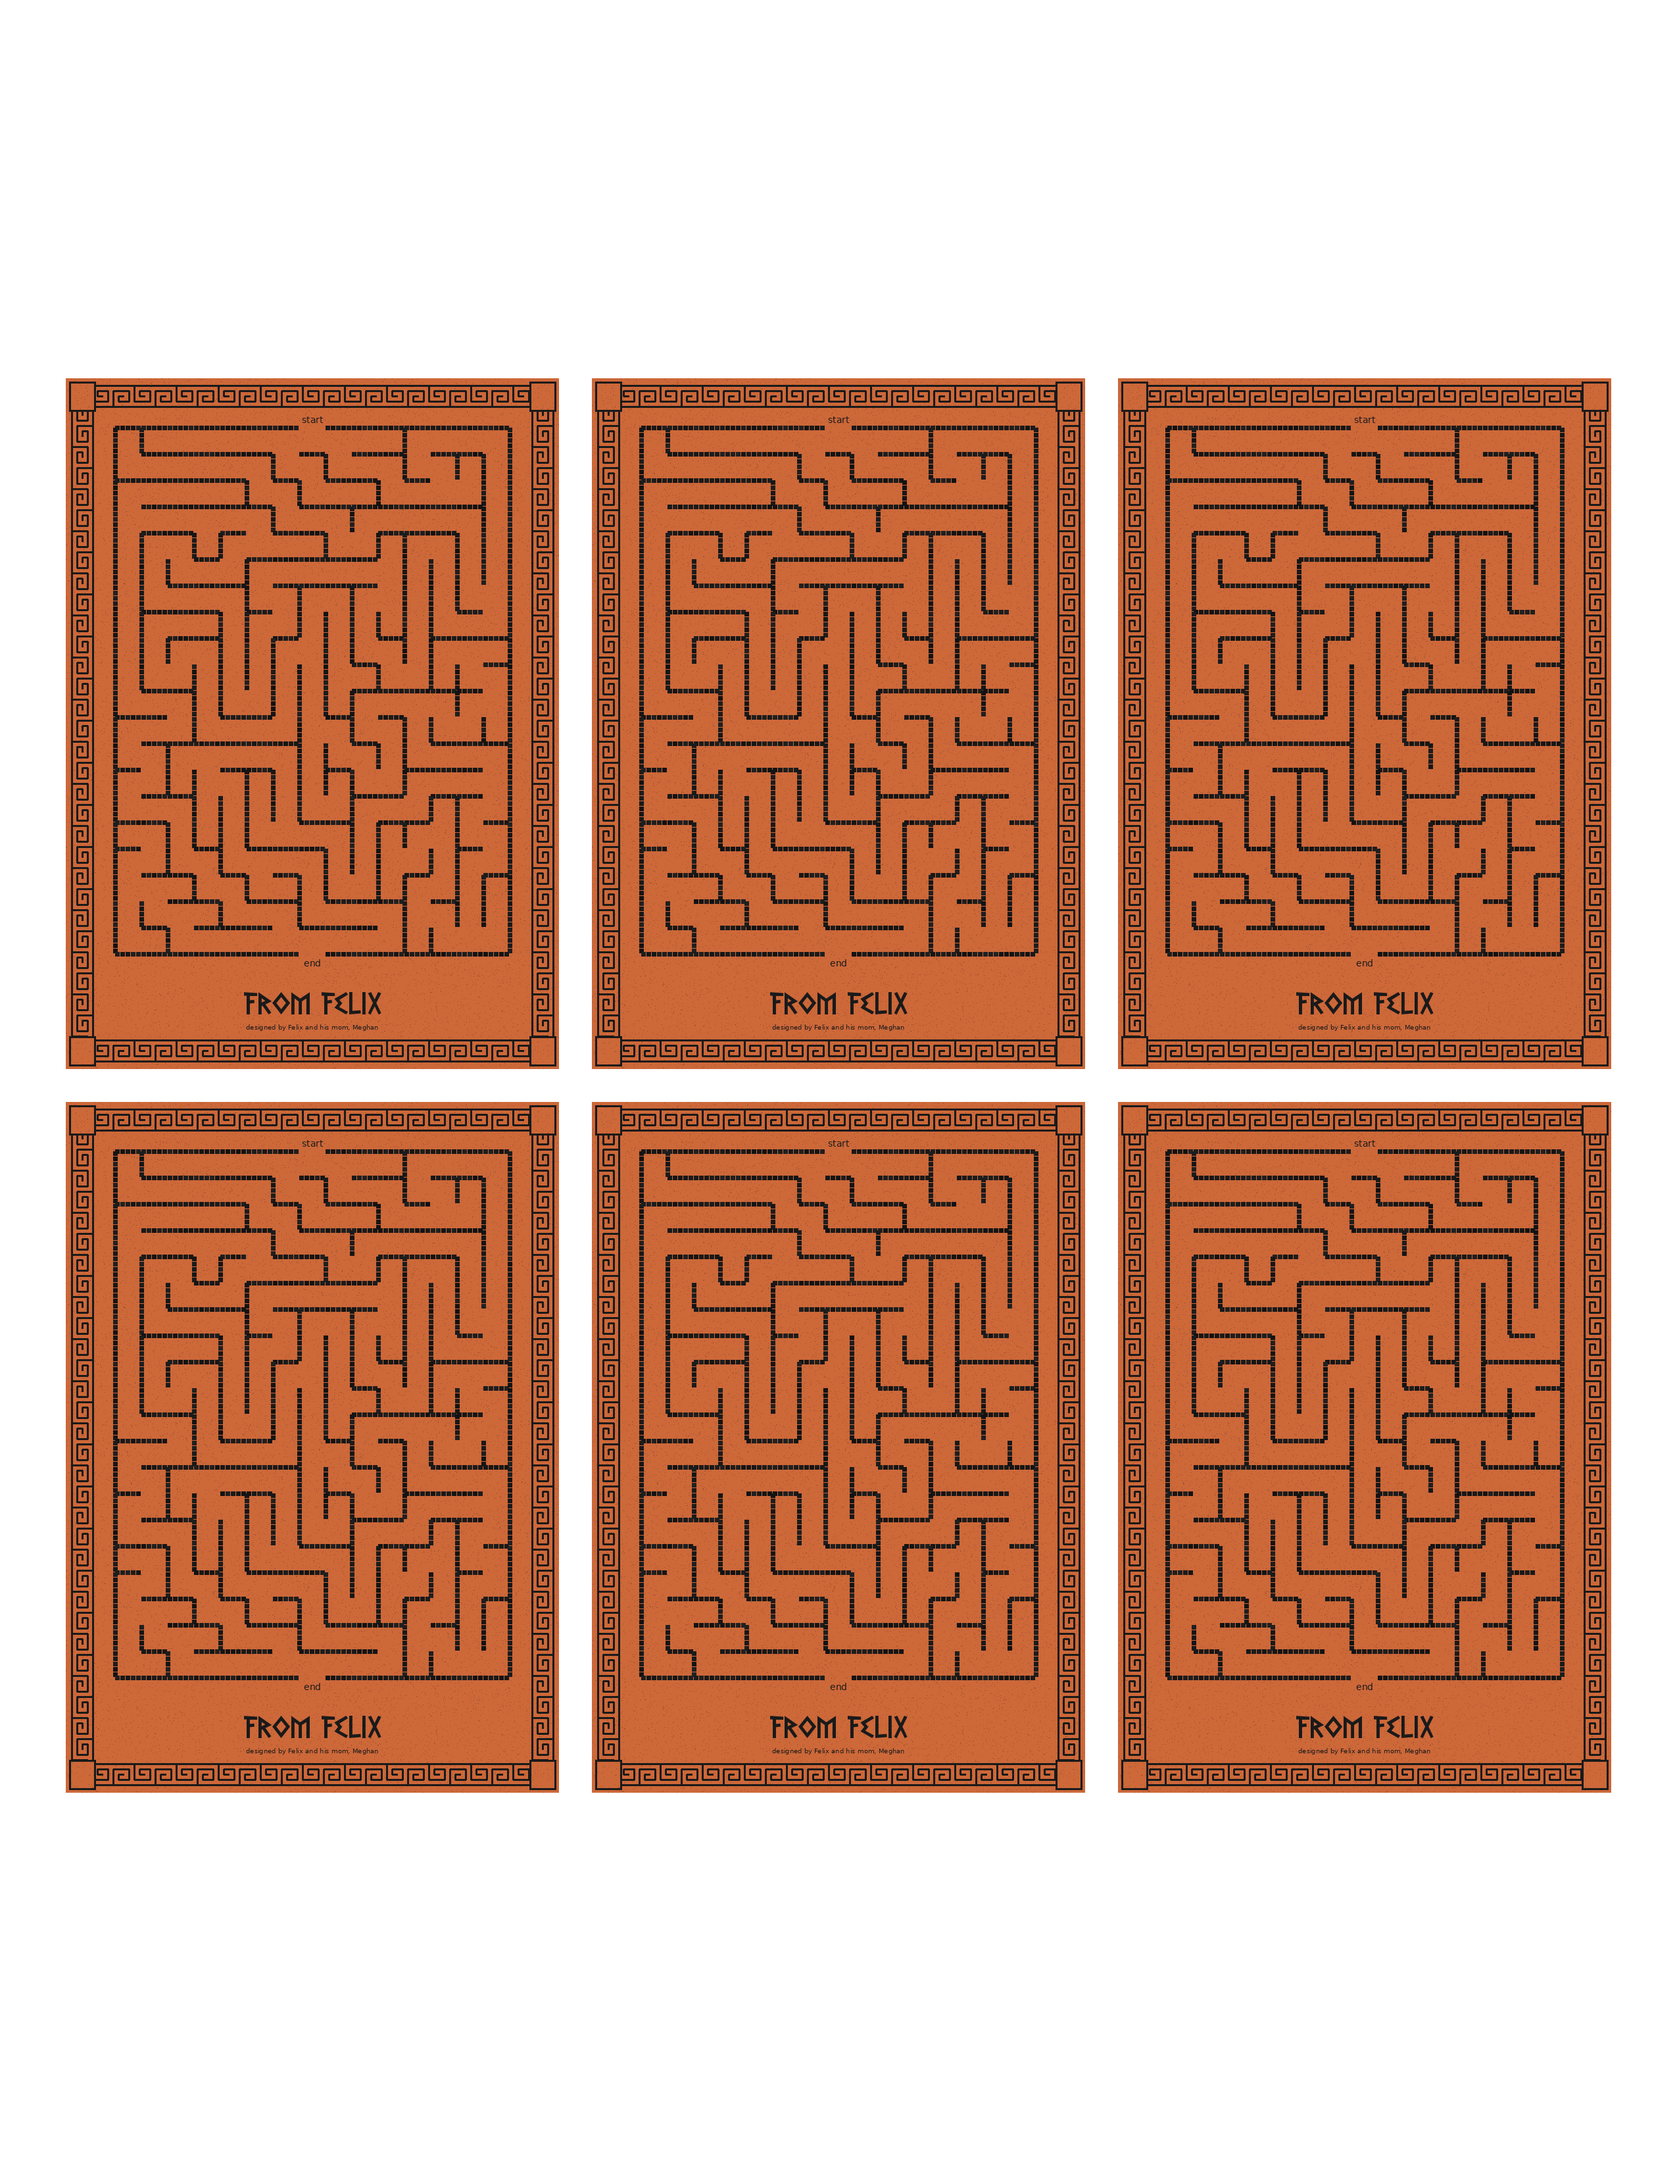
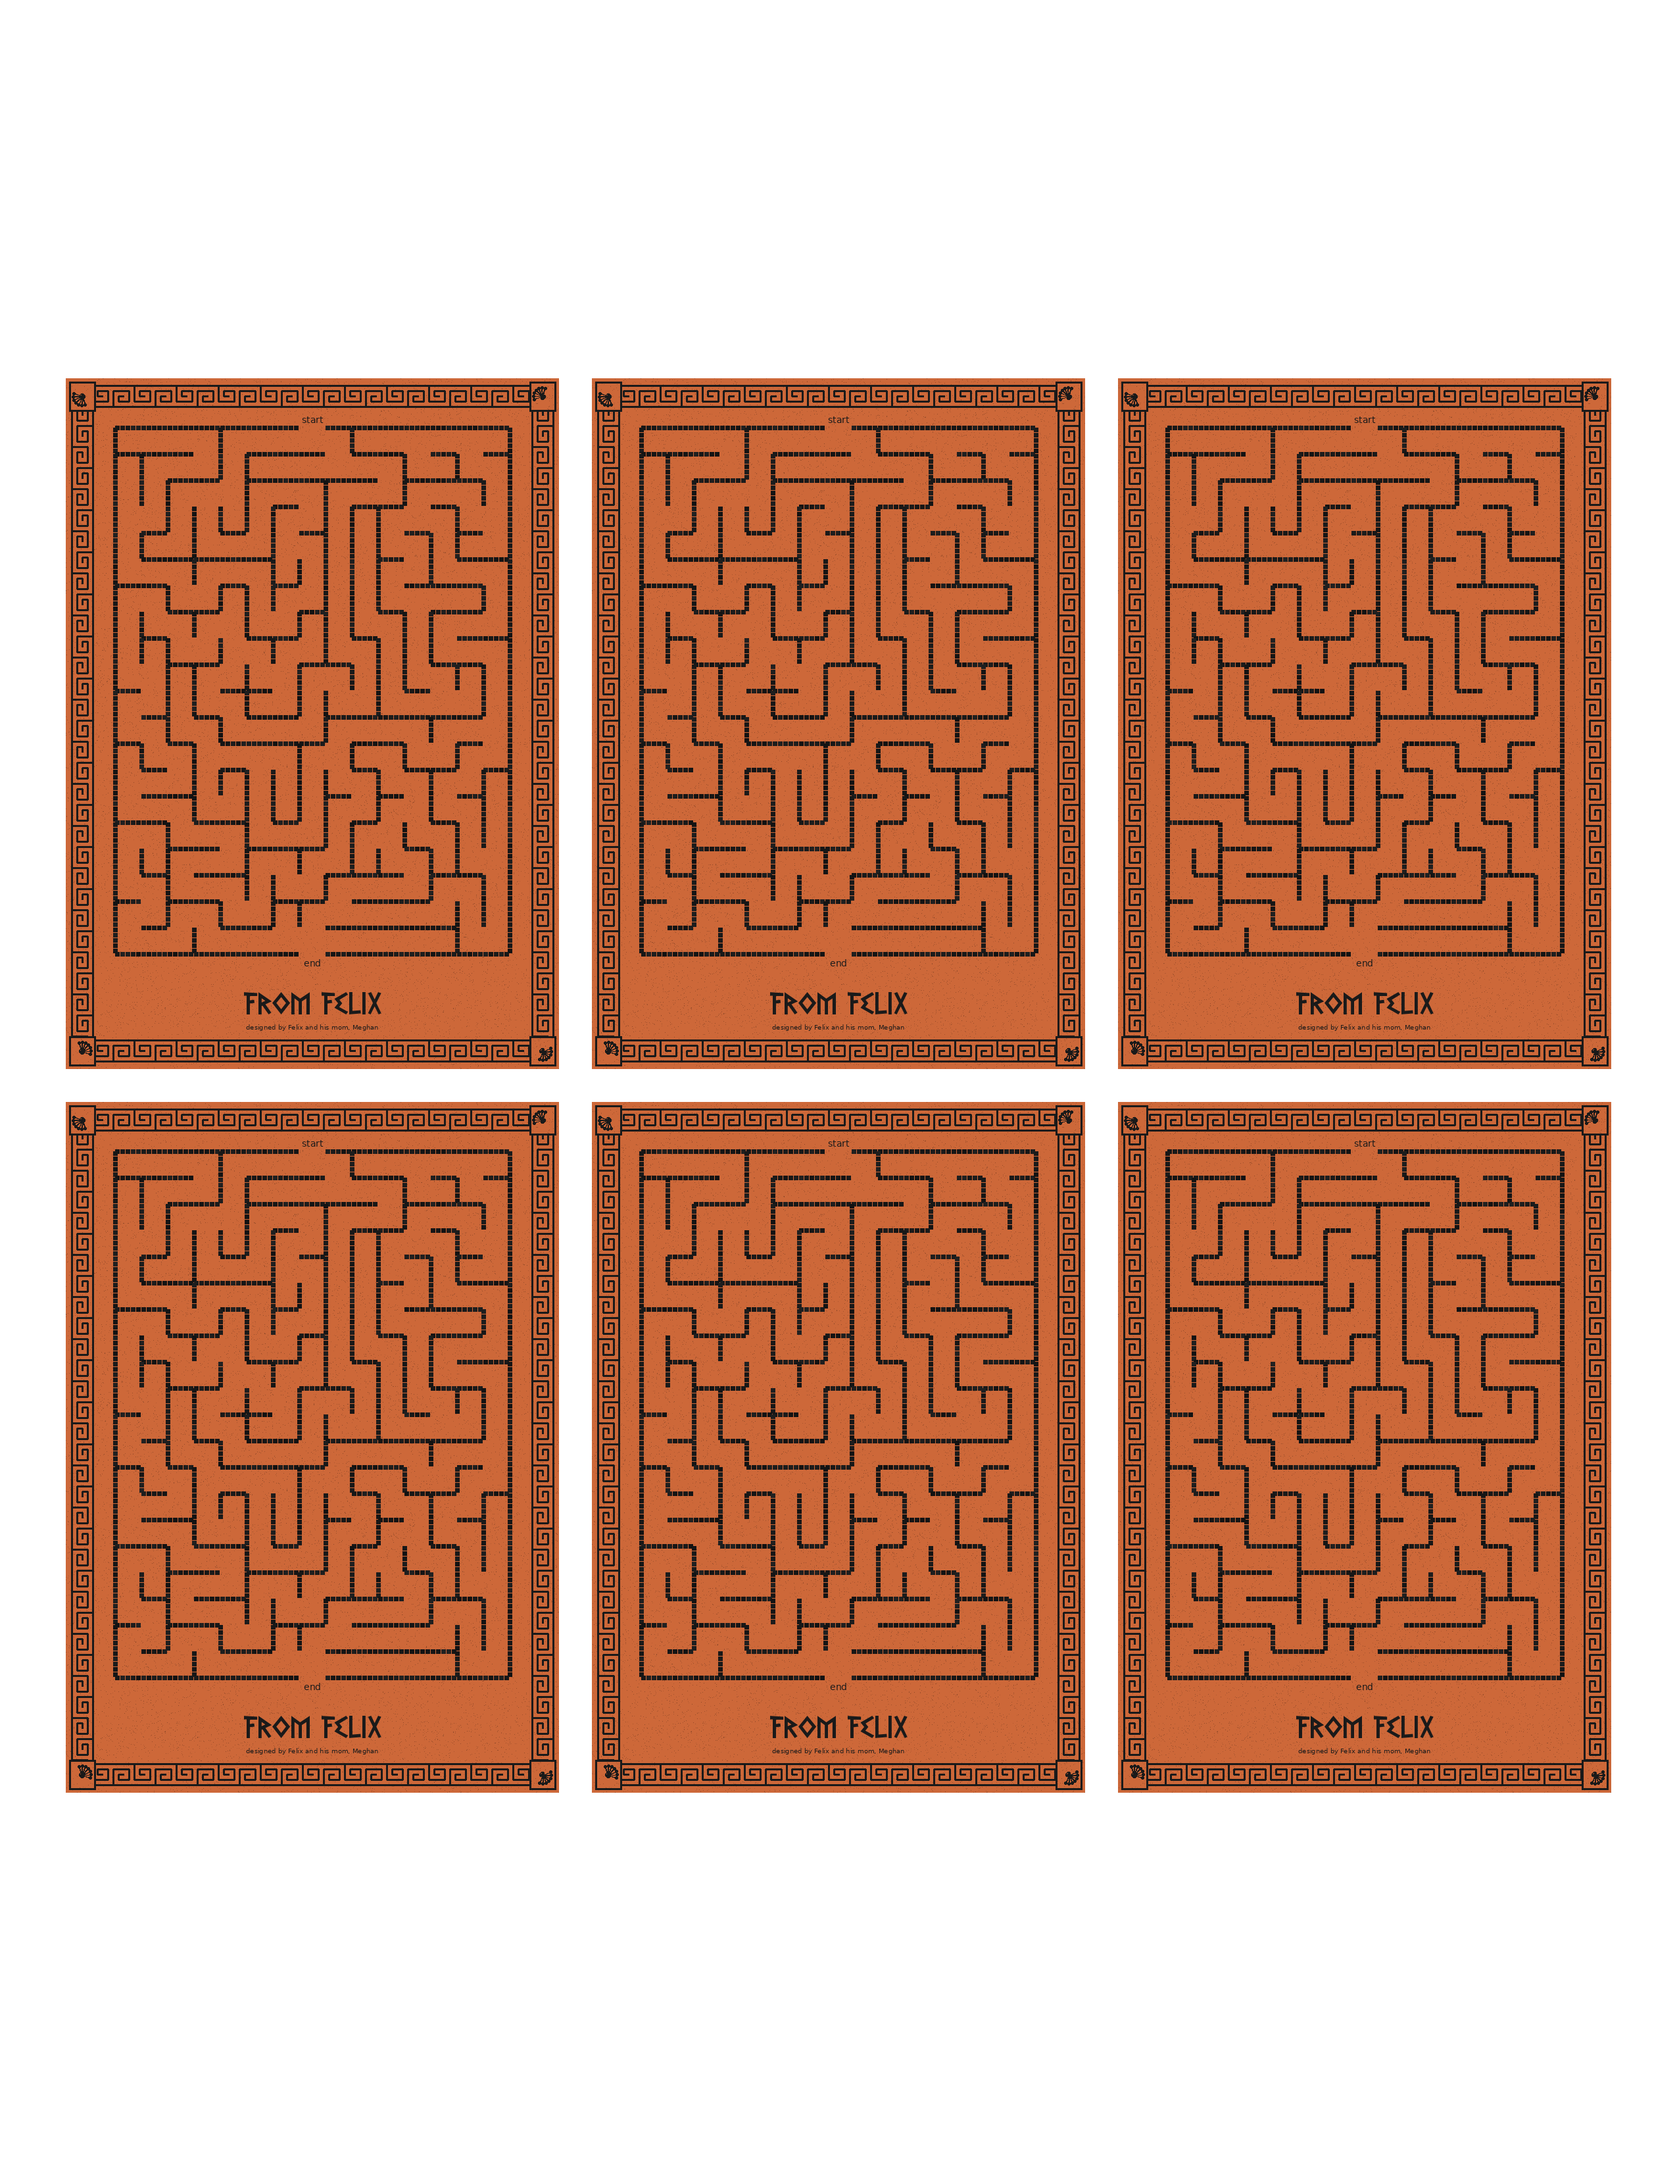
Add palmette motifs to meander border corners
Replace plain corner squares with Greek palmette (fan of petals) motifs.
Each corner palmette points diagonally inward toward the card center.

diff --git a/src/greek_design_system.py b/src/greek_design_system.py
@@ -85,6 +85,69 @@ def draw_greek_key_border(
             draw.line([(ux + step * 2, top_y + step * 2), (ux + step * 2, bottom_y - step * 2)], fill=fg, width=line_width)
 
 
+def draw_palmette(
+    draw: ImageDraw,
+    cx: int, cy: int,
+    size: int = 36,
+    rotation: int = 0,
+    fg_color: str = None,
+    bg_color: str = None
+):
+    """Draw a Greek palmette (stylized fan of petals) at the given center.
+
+    Args:
+        cx, cy: Center position
+        rotation: Angle in degrees (0=right, 90=down, 180=left, 270=up)
+                  Petals fan outward in this direction
+        size: Overall size of the palmette
+    """
+    import math
+
+    fg = fg_color or PALETTE.black
+
+    # Palmette has 7 petals in a fan arrangement
+    num_petals = 7
+    petal_length = size * 0.38
+    base_radius = size * 0.12
+
+    # Draw base arc opposite to petal direction
+    base_x1 = cx - base_radius
+    base_y1 = cy - base_radius
+    base_x2 = cx + base_radius
+    base_y2 = cy + base_radius
+
+    # Arc is drawn on the opposite side of the petals
+    arc_start = rotation + 90
+    arc_end = rotation + 270
+    draw.arc([base_x1, base_y1, base_x2, base_y2], arc_start, arc_end, fill=fg, width=2)
+
+    # Draw petals in a fan pattern
+    spread_angle = 130  # Total spread in degrees
+    start_angle = rotation - spread_angle / 2
+    angle_step = spread_angle / (num_petals - 1)
+
+    for i in range(num_petals):
+        petal_angle_deg = start_angle + i * angle_step
+        petal_angle = math.radians(petal_angle_deg)
+
+        # Calculate petal end point
+        end_x = cx + petal_length * math.cos(petal_angle)
+        end_y = cy + petal_length * math.sin(petal_angle)
+
+        # Draw petal as a line with rounded tip
+        draw.line([(cx, cy), (end_x, end_y)], fill=fg, width=2)
+
+        # Add small circle at petal tip for rounded effect
+        tip_radius = 2
+        draw.ellipse([end_x - tip_radius, end_y - tip_radius,
+                      end_x + tip_radius, end_y + tip_radius], fill=fg)
+
+    # Draw center dot
+    center_radius = 3
+    draw.ellipse([cx - center_radius, cy - center_radius,
+                  cx + center_radius, cy + center_radius], fill=fg)
+
+
 def draw_greek_key_border_vertical(
     draw: ImageDraw,
     x: int, y: int,
@@ -324,10 +387,22 @@ def draw_card_borders(
     draw_greek_key_border_vertical(draw, 5, border_width, 40, height - 2 * border_width, key_size=key_size, line_width=line_w)
     draw_greek_key_border_vertical(draw, width - 45, border_width, 40, height - 2 * border_width, key_size=key_size, line_width=line_w)
 
-    # Corner squares
-    for corners in [(5, 5, 45, 50), (width - 45, 5, width - 5, 50),
-                    (5, height - 50, 45, height - 5), (width - 45, height - 50, width - 5, height - 5)]:
-        draw.rectangle(corners, fill=PALETTE.terracotta, outline=PALETTE.black, width=line_w)
+    # Corner palmettes pointing inward
+    # Top-left: petals point down-right (135 degrees)
+    draw.rectangle([5, 5, 45, 50], fill=PALETTE.terracotta, outline=PALETTE.black, width=line_w)
+    draw_palmette(draw, 25, 28, size=36, rotation=135)
+
+    # Top-right: petals point down-left (225 degrees)
+    draw.rectangle([width - 45, 5, width - 5, 50], fill=PALETTE.terracotta, outline=PALETTE.black, width=line_w)
+    draw_palmette(draw, width - 25, 28, size=36, rotation=225)
+
+    # Bottom-left: petals point up-right (45 degrees)
+    draw.rectangle([5, height - 50, 45, height - 5], fill=PALETTE.terracotta, outline=PALETTE.black, width=line_w)
+    draw_palmette(draw, 25, height - 27, size=36, rotation=315)
+
+    # Bottom-right: petals point up-left (315 degrees)
+    draw.rectangle([width - 45, height - 50, width - 5, height - 5], fill=PALETTE.terracotta, outline=PALETTE.black, width=line_w)
+    draw_palmette(draw, width - 25, height - 27, size=36, rotation=45)
 
 
 # =============================================================================
